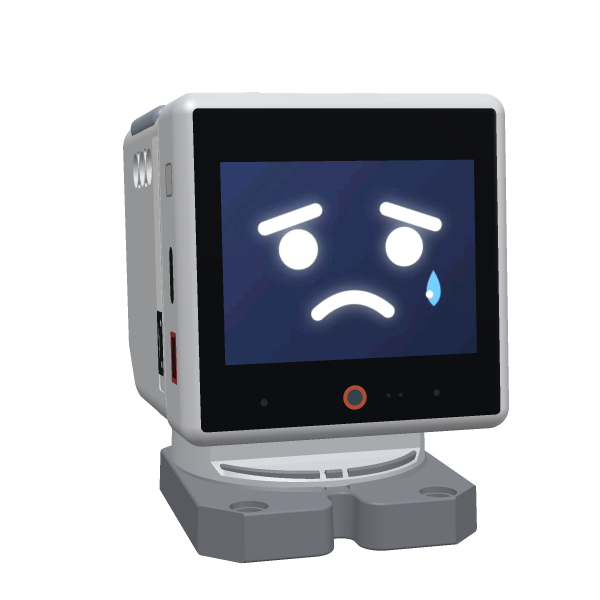
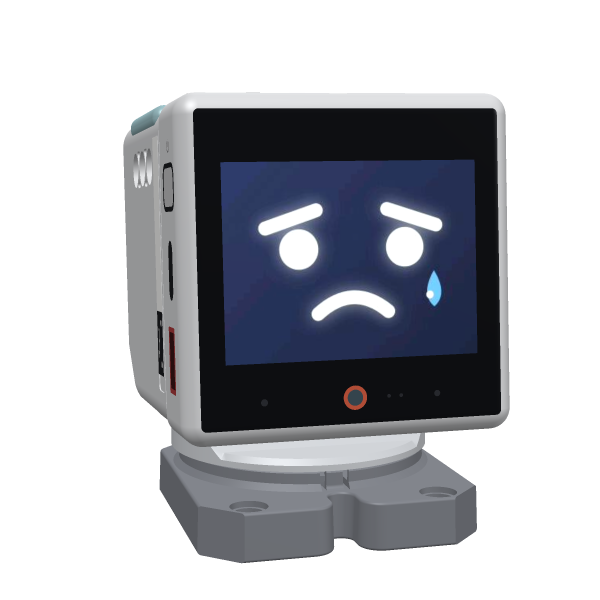
The power button, the body's back and the LED bars as on M5Stack's product photos
Compared with M5Stack's product photos and its dimension drawing of the
StackChan, three things were off.

The power button on the CoreS3's side was too small (6 x 5.2 mm), 1 mm
too high and 1 mm too far forward, without its black ring. It is now
9.9 x 7.5 mm in a black ring with the power sign above it, where the
drawing and the photos of that side show it; USB-C and the Grove port
moved to the drawing too (by up to 1.6 mm).

The servo body stood 2.7 mm too low: its foot sat inside the plate's ring
round the turntable. It now rests on the ring, so its screws, its LED
window and its back cover are where the photos of the back show them, and
the head pitches about the main body's boss (43.5 mm up), not 2.7 mm
below it. The back is coloured as on the photos: the back cover mid grey
instead of nearly black, two silver hex screws and the body's red LED in
the light band below it, the blue battery (a new part) through the
cover's cutout, and the stand's USB-C.

The LED bars, off, are pale teal like the light guide on the photos, not
grey.

The pictures in renders/ are rendered again: the bars and, from the
left, the button look different in all of them.

diff --git a/robot3d/shade.go b/robot3d/shade.go
@@ -22,7 +22,7 @@ var (
 	colVent     = hex(0x55595e)
 	colPortDark = hex(0x1c1d20)
 	colServo    = hex(0x50555b) // the open back: the servo inside
-	colBarOff   = hex(0x9aa5b0) // the LED bar, unlit: a light guide a little darker grey than the shell, bluish (the owner's photos)
+	colBarOff   = hex(0x9bbec4) // the LED bar, unlit: a light guide a little darker than the shell, pale teal (M5Stack's product photos of the side and the top; the owner's photos: bluish)
 	colRing     = hex(0xc9573e) // the camera's red ring under the screen (the owner's photos)
 	colLens     = hex(0x3a4c56) // the camera's lens
 	colSensor   = hex(0x2a2c31) // the light and proximity sensor's two windows: dark (the owner's photos)
@@ -30,6 +30,12 @@ var (
 	colPortTeal = hex(0x2a9da5) // port C (UART) on the head's top
 	colPlate    = hex(0x7d8087) // the base: dark grey (the owner's photos; it renders darker)
 	colDisc     = hex(0xc9ccd0)
+	// The body's back (M5Stack's product photos of the back): the servo body light grey with a
+	// white band at its foot, the back cover over the battery mid grey, the battery blue.
+	colServoCover = hex(0x6c6e71)
+	colBattery    = hex(0x1f7fc4)
+	colScrew      = hex(0xb4b7bb) // the band's two hex screws
+	colBackLed    = hex(0xc0341a) // the body's red LED between them (unlit: its red lens)
 )
 
 // lights: a key light from the upper left front, a fill from the right, a soft one from behind,
@@ -58,7 +64,7 @@ type scene struct {
 
 // core shades the CoreS3 (p, n in the robot's rest space): the glass front with the screen, the
 // red ring and the sensors' dots; vents on the robot's left (+X), the power button, USB-C and the
-// Grove port on its right (sizes from M5Stack's drawing).
+// Grove port on its right (places and sizes from M5Stack's drawing and product photos of that side).
 func (s *scene) core(p, n V3) surface {
 	sf := surface{albedo: colShell, spec: 0.18, shine: 24}
 	p = p.Sub(coreCentre)
@@ -121,18 +127,22 @@ func (s *scene) core(p, n V3) surface {
 		if p.X < -13.4 {
 			sf.albedo = hex(0x9a9ca0)
 		}
-	case n.X < -0.97: // right: the power button, USB-C, the Grove port
-		const cz = 0.4
-		if d := roundRect(p.Z-cz, p.Y-14, 3, 2.6, 1.2); d <= 0 {
-			sf.albedo = colShell.mul(0.9)
-			if d > -0.35 {
-				sf.albedo = colShell.mul(0.6)
+	case n.X < -0.97: // right, from the top: the power sign, the power button, USB-C, the Grove port
+		// The power button: wider (front to back) than high, in the upper third, a little behind
+		// the side's middle; its key in a black ring (M5Stack's drawing: 9.9 x 7.5 outside).
+		if d := roundRect(p.Z+0.6, p.Y-12.9, 4.95, 3.75, 2.2); d <= 0 {
+			sf.albedo, sf.spec = colPortDark, 0.25
+			if d < -0.75 {
+				sf.albedo, sf.spec = colShell.mul(0.9), 0.18
 			}
 		}
-		if roundRect(p.Z-cz, p.Y+0.7, 1.5, 4.4, 1.4) <= 0 {
+		if powerSign(p.Z+0.2, p.Y-19.2) {
+			sf.albedo = colShell.mul(0.62)
+		}
+		if roundRect(p.Z+0.4, p.Y, 1.8, 4.65, 1.8) <= 0 {
 			sf.albedo, sf.spec = colPortDark, 0.2
 		}
-		if d := roundRect(p.Z-cz, p.Y+13.5, 2.5, 4, 0.4); d <= 0 {
+		if d := roundRect(p.Z+1.2, p.Y+14.1, 2.65, 5.25, 0.4); d <= 0 {
 			sf.albedo = hex(0xa83a3c)
 			if d < -0.8 {
 				sf.albedo = hex(0x3a1416)
@@ -283,6 +293,62 @@ func (s *scene) barGlow(z, y float64, left bool, sf *surface) {
 	}
 }
 
+// powerSign is the power symbol above the power button (u across, v up from its centre): a ring
+// open at the top and a bar through the gap, about 2 mm across.
+func powerSign(u, v float64) bool {
+	r := math.Hypot(u, v)
+	ring := r > 0.72 && r < 1.0 && !(v > 0.3 && math.Abs(u) < 0.5)
+	bar := math.Abs(u) < 0.13 && v > -0.1 && v < 1.15
+	return ring || bar
+}
+
+// lower shades the servo body, its back cover and the stand (p, n at rest), from their material:
+// at the back the white band's two hex screws and the red LED between them, and the stand's
+// USB-C (M5Stack's drawing and product photos of the back).
+func lower(p, n V3, mat int) surface {
+	sf := material(mat)
+	switch mat {
+	case matServo, matServoCover:
+		if p.Z > -5 {
+			break
+		}
+		for _, sx := range []float64{-screwX, screwX} {
+			u, v := p.X-sx, p.Y-screwY
+			switch d := math.Hypot(u, v); {
+			case d < 0.75 && hexagon(u, v, 0.65):
+				sf.albedo, sf.spec = colPortDark, 0.1 // the hex socket
+			case d < 1.55:
+				sf.albedo, sf.spec, sf.shine = colScrew, 0.6, 50
+			case d < 1.95:
+				sf.albedo, sf.spec = colPortDark.lerp(colDisc, 0.3), 0.1 // the gap round its head
+			}
+		}
+		if mat == matServo && box(p.X, p.Y, backLedX-0.75, backLedY-1.5, backLedX+0.75, backLedY+1.5) {
+			sf.albedo, sf.spec, sf.shine = colBackLed, 0.5, 40
+		}
+	case matPlate:
+		if p.Z > -11 || n.Y > 0.5 { // the back and the opening, not the plate's top
+			break
+		}
+		if d := roundRect(p.X-standUsbX, p.Y-standUsbY, standUsbW/2, standUsbH/2, standUsbH/2); d <= 0 {
+			sf.albedo, sf.spec = colPortDark, 0.2
+			switch {
+			case d > -0.45:
+				sf.albedo, sf.spec, sf.shine = hex(0xa9adb2), 0.6, 50 // its metal shell
+			case math.Abs(p.Y-standUsbY) < 0.35 && math.Abs(p.X-standUsbX) < 3.3 && p.Z < -19:
+				sf.albedo = hex(0x3c3e42) // its tongue
+			}
+		}
+	}
+	return sf
+}
+
+// hexagon: (u, v) inside a regular hexagon of circumradius r, flat at the top and bottom.
+func hexagon(u, v, r float64) bool {
+	u, v = math.Abs(u), math.Abs(v)
+	return v <= r*math.Sqrt(3)/2 && u*math.Sqrt(3)/2+v/2 <= r*math.Sqrt(3)/2
+}
+
 func box(x, y, x0, y0, x1, y1 float64) bool { return x >= x0 && x <= x1 && y >= y0 && y <= y1 }
 
 // roundRect is the signed distance to a rectangle of half sizes hx, hy with corners rounded by r.
@@ -337,7 +403,9 @@ func material(mat int) surface {
 	case matServo:
 		return surface{albedo: colDisc, spec: 0.25, shine: 30}
 	case matServoCover:
-		return surface{albedo: colServo, spec: 0.15, shine: 20}
+		return surface{albedo: colServoCover, spec: 0.15, shine: 20}
+	case matBattery:
+		return surface{albedo: colBattery, spec: 0.3, shine: 30}
 	case matPitchServo:
 		return surface{albedo: colServo, spec: 0.2, shine: 30} // as the servo body around it: nothing black shows at the back (the owner's photo)
 	}

diff --git a/robot3d/export_test.go b/robot3d/export_test.go
@@ -1,6 +1,10 @@
 package robot3d
 
-import "testing"
+import (
+	"image/color"
+	"math"
+	"testing"
+)
 
 // Surface gives the renderer's details: the glass at the screen, the power button and USB-C on
 // the CoreS3's right, StackChan's board seen through the open back; the plain shell elsewhere.
@@ -12,11 +16,21 @@ func TestSurface(t *testing.T) {
 	}
 	right := V3{-1, 0, 0}
 	for name, p := range map[string]V3{
-		"power button": coreCentre.Add(V3{-27, 14, 0.4}),
-		"USB-C":        coreCentre.Add(V3{-27, -0.7, 0.4}),
+		"power button":      coreCentre.Add(V3{-27, 12.9, -0.6}),
+		"power button ring": coreCentre.Add(V3{-27, 12.9, 3.9}),
+		"power sign":        coreCentre.Add(V3{-27, 19.2 + 0.6, -0.2 + 0.6}),
+		"USB-C":             coreCentre.Add(V3{-27, 0, -0.4}),
+		"Grove port":        coreCentre.Add(V3{-27, -14.1, -1.2}),
 	} {
 		if c, _ := Surface("core", p, right); c == shell {
 			t.Errorf("%s: the plain shell", name)
+		}
+	}
+	// M5Stack's drawing: the button 9.9 wide and 7.5 high: below it, behind it and in front of
+	// it the shell (the old one was 6 x 5.2, 1 mm higher and further forward).
+	for _, d := range []V3{{0, 12.9 - 4.2, -0.6}, {0, 12.9, -0.6 - 5.4}, {0, 12.9, -0.6 + 5.4}, {0, 12.9 + 4.2, -0.6}} {
+		if c, _ := Surface("core", coreCentre.Add(V3{-27, d.Y, d.Z}), right); c != shell {
+			t.Errorf("next to the power button at y %+.1f z %+.1f: %v, want the shell", d.Y, d.Z, c)
 		}
 	}
 	back := coreCentre.Add(V3{0, 0, -coreD/2 - coreOverLip})
@@ -28,6 +42,59 @@ func TestSurface(t *testing.T) {
 	}
 	if c, glass := Surface("core", coreCentre.Add(V3{-27, -20, 0.4}), right); glass || c != shell {
 		t.Errorf("the right side below the ports: %v %v, want the shell %v", c, glass, shell)
+	}
+}
+
+// The body's back as on M5Stack's product photos: the back cover mid grey between the light grey
+// servo body and the dark stand, two silver screws and the red LED in the light band at its
+// foot, the battery blue through the cover's cutout, the stand's USB-C dark in a metal shell.
+func TestBack(t *testing.T) {
+	back := V3{0, 0, -1}
+	at := func(part string, p V3) color.RGBA {
+		c, _ := Surface(part, p, back)
+		return c
+	}
+	lum := func(c color.RGBA) int { return (299*int(c.R) + 587*int(c.G) + 114*int(c.B)) / 1000 }
+	band, cover, stand := at("servo", V3{6, screwY, -23.3}), at("servo-cover", V3{0, 25, -22.4}), at("plate", V3{12, 4, -23.6})
+	if lum(cover) > lum(band)-60 || lum(cover) < lum(stand)-30 || lum(cover) > lum(stand)+30 {
+		t.Errorf("the back cover %v: not mid grey between the band %v and the stand %v", cover, band, stand)
+	}
+	if c := at("servo", V3{backLedX, backLedY, -23.15}); c.R < 120 || int(c.R) < 2*int(c.G) {
+		t.Errorf("the LED between the screws: %v, not red", c)
+	}
+	for _, sx := range []float64{-screwX, screwX} {
+		if c := at("servo-cover", V3{sx + 1, screwY, -22}); lum(c) < lum(cover)+40 || c.R > c.B {
+			t.Errorf("the screw at x %+.1f: %v, not silver", sx, c)
+		}
+	}
+	if c := at("battery", V3{0, batteryY0 + 1, batteryZ0}); int(c.B) < int(c.R)+80 {
+		t.Errorf("the battery: %v, not blue", c)
+	}
+	if c := at("plate", V3{standUsbX + 3.8, standUsbY, -23.3}); lum(c) > 40 {
+		t.Errorf("the stand's USB-C: %v, not dark", c)
+	}
+}
+
+// The servo body stands on the plate's ring round the turntable, not in it, and the head
+// pitches about the main body's boss (M5Stack's drawing of the back: the screws, the LED window
+// and the horn 3 mm higher than with the servo body's foot on the plate's 8 mm top).
+func TestServoOnPlate(t *testing.T) {
+	foot, ring := math.Inf(1), math.Inf(-1)
+	for _, p := range Parts() {
+		for _, v := range p.Positions {
+			switch p.Name {
+			case "servo", "servo-cover":
+				foot = math.Min(foot, v.Y)
+			case "plate":
+				ring = math.Max(ring, v.Y)
+			}
+		}
+	}
+	if foot < ring {
+		t.Errorf("the servo body's foot at y %.2f, in the plate (up to %.2f)", foot, ring)
+	}
+	if math.Abs(pivot.Y-43.5) > 0.05 {
+		t.Errorf("the pitch axis at y %.2f, the main body's boss at 43.5", pivot.Y)
 	}
 }
 

diff --git a/robot3d/export.go b/robot3d/export.go
@@ -5,7 +5,7 @@ import "image/color"
 // Part is a piece of the model at rest (yaw 0, pitch 0) in the robot's space (millimetres, Y up,
 // facing +Z, the yaw axis through x = 0, z = 0), for other renderers (e.g. glTF for a browser).
 type Part struct {
-	Name  string     // plate, servo, servo-cover, pitch-servo, body, led-bar-left, led-bar-right, led-board-left, led-board-right, led-chips-left, led-chips-right, top-board, base-cover, core
+	Name  string     // plate, servo, servo-cover, pitch-servo, battery, body, led-bar-left, led-bar-right, led-board-left, led-board-right, led-chips-left, led-chips-right, top-board, base-cover, core
 	Joint string     // what moves it: "base" (nothing), "yaw" (turns about the yaw axis), "head" (yaw, then pitch about PitchPivot)
 	Color color.RGBA // its base colour (details such as the screen, ports and labels are drawn, not modelled)
 	// Triangles, three positions each, and a normal per position.
@@ -30,10 +30,12 @@ func Parts() []Part {
 		{partPlate, matPlate}: "plate", {partServo, matServo}: "servo", {partServo, matServoCover}: "servo-cover",
 		{partBody, matBody}: "body", {partCore, matCore}: "core",
 		{partServo, matPitchServo}: "pitch-servo", {partBody, matTopBoard}: "top-board", {partPlate, matBaseCover}: "base-cover",
+		{partServo, matBattery}: "battery",
 	}
 	joints := map[int]string{partPlate: "base", partServo: "yaw", partBody: "head", partCore: "head"}
-	colours := map[int]rgb{matPlate: colPlate, matServo: colDisc, matServoCover: colServo, matBody: colShell,
-		matBar: colBarOff, matCore: colShell, matPitchServo: colServo, matTopBoard: colShell, matBaseCover: colPlate, matLedBoard: hex(0xe9e9e2), matLedChip: hex(0xf2f2ee)}
+	colours := map[int]rgb{matPlate: colPlate, matServo: colDisc, matBody: colShell,
+		matBar: colBarOff, matCore: colShell, matPitchServo: colServo, matTopBoard: colShell, matBaseCover: colPlate, matLedBoard: hex(0xe9e9e2), matLedChip: hex(0xf2f2ee),
+		matServoCover: colServoCover, matBattery: colBattery}
 	byName := map[string]*Part{}
 	var order []string
 	for _, t := range mesh() {
@@ -70,8 +72,9 @@ func Parts() []Part {
 // Surface is how a part looks at a point at rest (p and n in the robot's rest space, as Parts
 // gives them), before the lights: its base colour with the details the renderer draws (the glass
 // front and the red ring, the sensors' dots, the vents, the ports and buttons, the labels and the
-// back panel's sticker and ports; the screen and the LEDs off), and whether it is glass (shiny,
-// reflecting the room). For textures in other renderers.
+// back panel's sticker and ports; at the body's back its screws, its red LED and the stand's
+// USB-C; the screen and the LEDs off), and whether it is glass (shiny, reflecting the room). For
+// textures in other renderers.
 func Surface(part string, p, n V3) (c color.RGBA, glass bool) {
 	var sc scene
 	var sf surface
@@ -88,14 +91,18 @@ func Surface(part string, p, n V3) (c color.RGBA, glass bool) {
 		sf = sc.body(p, n, matLedChip)
 	case "led-bar-left", "led-bar-right":
 		sf = sc.body(p, n, matBar)
-	case "plate", "base-cover":
-		sf = material(matPlate)
+	case "plate":
+		sf = lower(p, n, matPlate)
+	case "base-cover":
+		sf = material(matBaseCover)
 	case "servo":
-		sf = material(matServo)
+		sf = lower(p, n, matServo)
 	case "servo-cover":
-		sf = material(matServoCover)
+		sf = lower(p, n, matServoCover)
 	case "pitch-servo":
 		sf = material(matPitchServo)
+	case "battery":
+		sf = material(matBattery)
 	default:
 		sf = material(-1)
 	}

diff --git a/robot3d/mesh.go b/robot3d/mesh.go
@@ -23,7 +23,10 @@ const (
 	screenH     = 30.6
 	screenCY    = 1.0 // the screen's centre above the CoreS3's centre
 	rim         = 1.4 // the shell's rim around the glass front
-	servoBottom = 8.5 // the servo body stands on the plate (8 high)
+	// The servo body's foot rests on the plate's ring round the turntable (its top at 11.1; the
+	// plate itself is 8 high): M5Stack's drawing and product photos of the back put its screws,
+	// its LED window and its back cover there, and its horn at the main body's pitch boss (y 43.5).
+	servoBottom = 11.2
 	pitchAxisY  = servoBottom + 32.3
 )
 
@@ -55,14 +58,28 @@ const (
 	matLedChip    // its six LEDs (WS2812C, 2 x 2 mm), one under each sixth of the light guide
 	matTopBoard   // the head's top behind the CoreS3: the touch pads, the IR LED and receiver, ports B and C
 	matBaseCover  // the base's bottom cover (M5Stack's BaseCover.stl): the base's underside is flat
+	matBattery    // the 550 mAh battery behind the servo body's back cover (blue)
 )
 
 // The pitch servo, drawn (M5Stack's files leave the servos out): the pocket the servo body
 // leaves on the robot's left, round the pitch axis, between its side and the main body's boss.
 const (
 	pitchServoX0, pitchServoX1 = 11.0, 22.0
-	pitchServoY0, pitchServoY1 = 36.0, 47.5
+	pitchServoY0, pitchServoY1 = servoBottom + 27.5, servoBottom + 39.0
 	pitchServoZ0, pitchServoZ1 = -17.0, 10.0
+)
+
+// The back of the servo body (M5Stack's drawing and product photos of the back). The battery,
+// drawn (M5Stack's files leave it out), fills the compartment behind the back cover; the cover's
+// cutout above its screws shows its blue wrap (M5Stack's annotated photo: 550 mAh BATTERY).
+const (
+	batteryX             = 14.6
+	batteryY0, batteryY1 = servoBottom + 6.5, servoBottom + 22.7
+	batteryZ0, batteryZ1 = -19.2, -10.3
+	screwX, screwY       = 10.6, servoBottom + 3.15 // the back cover's two screws (x ±), in the white band
+	backLedX, backLedY   = 0.25, servoBottom + 3.2  // the red LED between them, in its window
+	standUsbX, standUsbY = 0.6, 7.55                // the stand's USB-C, in the opening M5Stack's base leaves on its back
+	standUsbW, standUsbH = 8.9, 3.2
 )
 
 // The LED bars' slot (one each side, at the top).
@@ -126,6 +143,12 @@ func mesh() []tri {
 		add(roundedBoxBack(V3{27, 27, (coreD + coreOverLip) / 2}, coreR, coreBackR, 6, partCore, matCore), coreCentre.Add(V3{0, 0, -coreOverLip / 2}))
 		add(roundedBox(V3{(pitchServoX1 - pitchServoX0) / 2, (pitchServoY1 - pitchServoY0) / 2, (pitchServoZ1 - pitchServoZ0) / 2}, 0.8, 2, partServo, matPitchServo),
 			V3{(pitchServoX0 + pitchServoX1) / 2, (pitchServoY0 + pitchServoY1) / 2, (pitchServoZ0 + pitchServoZ1) / 2})
+		add(roundedBox(V3{batteryX, (batteryY1 - batteryY0) / 2, (batteryZ1 - batteryZ0) / 2}, 0.8, 2, partServo, matBattery),
+			V3{0, (batteryY0 + batteryY1) / 2, (batteryZ0 + batteryZ1) / 2})
+		// The red LED in the servo body's back window and the USB-C receptacle in the stand's back
+		// opening (M5Stack's files leave both open through): shaded as their part's details.
+		add(roundedBox(V3{0.75, 1.5, 0.75}, 0.2, 1, partServo, matServo), V3{backLedX, backLedY, -22.4})
+		add(roundedBox(V3{standUsbW / 2, standUsbH / 2, 3.5}, 1.4, 2, partPlate, matPlate), V3{standUsbX, standUsbY, -23.3 + 3.5})
 		for _, sx := range []float64{-1, 1} {
 			add(roundedBox(V3{(barX1 - barX0) / 2, (barY1 - barY0) / 2, (barZ1 - barZ0) / 2}, 2.0, 3, partBody, matBar),
 				V3{sx * (barX0 + barX1) / 2, (barY0 + barY1) / 2, (barZ0 + barZ1) / 2})

diff --git a/robot3d/render.go b/robot3d/render.go
@@ -162,6 +162,8 @@ func shadeSample(sc *scene, t tri, w [3]vert, b [3]float64, eye V3) rgb {
 		sf = sc.core(lp, ln)
 	case partBody:
 		sf = sc.body(lp, ln, t.mat)
+	case partServo, partPlate:
+		sf = lower(lp, ln, t.mat)
 	default:
 		sf = material(t.mat)
 	}

diff --git a/README.md b/README.md
@@ -41,13 +41,17 @@ The model: M5Stack's structure files for the StackChan (`robot3d/m5stack/`, MIT,
 [m5stack/M5_Hardware](https://github.com/m5stack/M5_Hardware/tree/master/Products/K151_StackChan/Structures)):
 the main body (the head behind the CoreS3, with its holes and LED slots), the base, the servo body
 with the turntable, its back cover and its top cover (inside the head), placed by the dimensions in M5Stack's drawing
-([docs](https://docs.m5stack.com/en/StackChan): 54 x 70.5 x 61.5 mm, the plate 8 high). Drawn
-here: the CoreS3 (54 x 54 x 15.5) with the screen (40.8 x 30.6) in its black glass front, the red
-ring and the sensors' dots, vents on the left, power button, USB-C and Grove port on the right; the
-light guide bars of the LEDs, the labels (without text), the upper back's panel (down to 29 mm
-below the top) and the black pitch servo in the servo body's pocket on the left (M5Stack's files
-leave the servos out; sized by the pocket and a photo of the back). The head
-pitches about the servo's horn, 24 mm above its bottom, right over the yaw axis.
+([docs](https://docs.m5stack.com/en/StackChan): 54 x 70.5 x 61.5 mm, the plate 8 high; the servo
+body's foot on the plate's ring round the turntable). Drawn here: the CoreS3 (54 x 54 x 15.5) with
+the screen (40.8 x 30.6) in its black glass front, the red ring and the sensors' dots, vents on the
+left, the power button (in its black ring, the power sign above it), USB-C and Grove port on the
+right; the light guide bars of the LEDs (pale teal when off), the labels (without text), the upper
+back's panel (down to 29 mm below the top) and the black pitch servo in the servo body's pocket on
+the left (M5Stack's files leave the servos out; sized by the pocket and a photo of the back); at
+the body's back the mid grey cover, the blue battery through its cutout, the two screws and the red
+LED in the band below it, and the stand's USB-C (M5Stack's drawing and product photos of the back).
+The head pitches about the servo's horn at the main body's boss, 27 mm above its bottom, right over
+the yaw axis.
 
 ## The pictures in the other repositories
 
